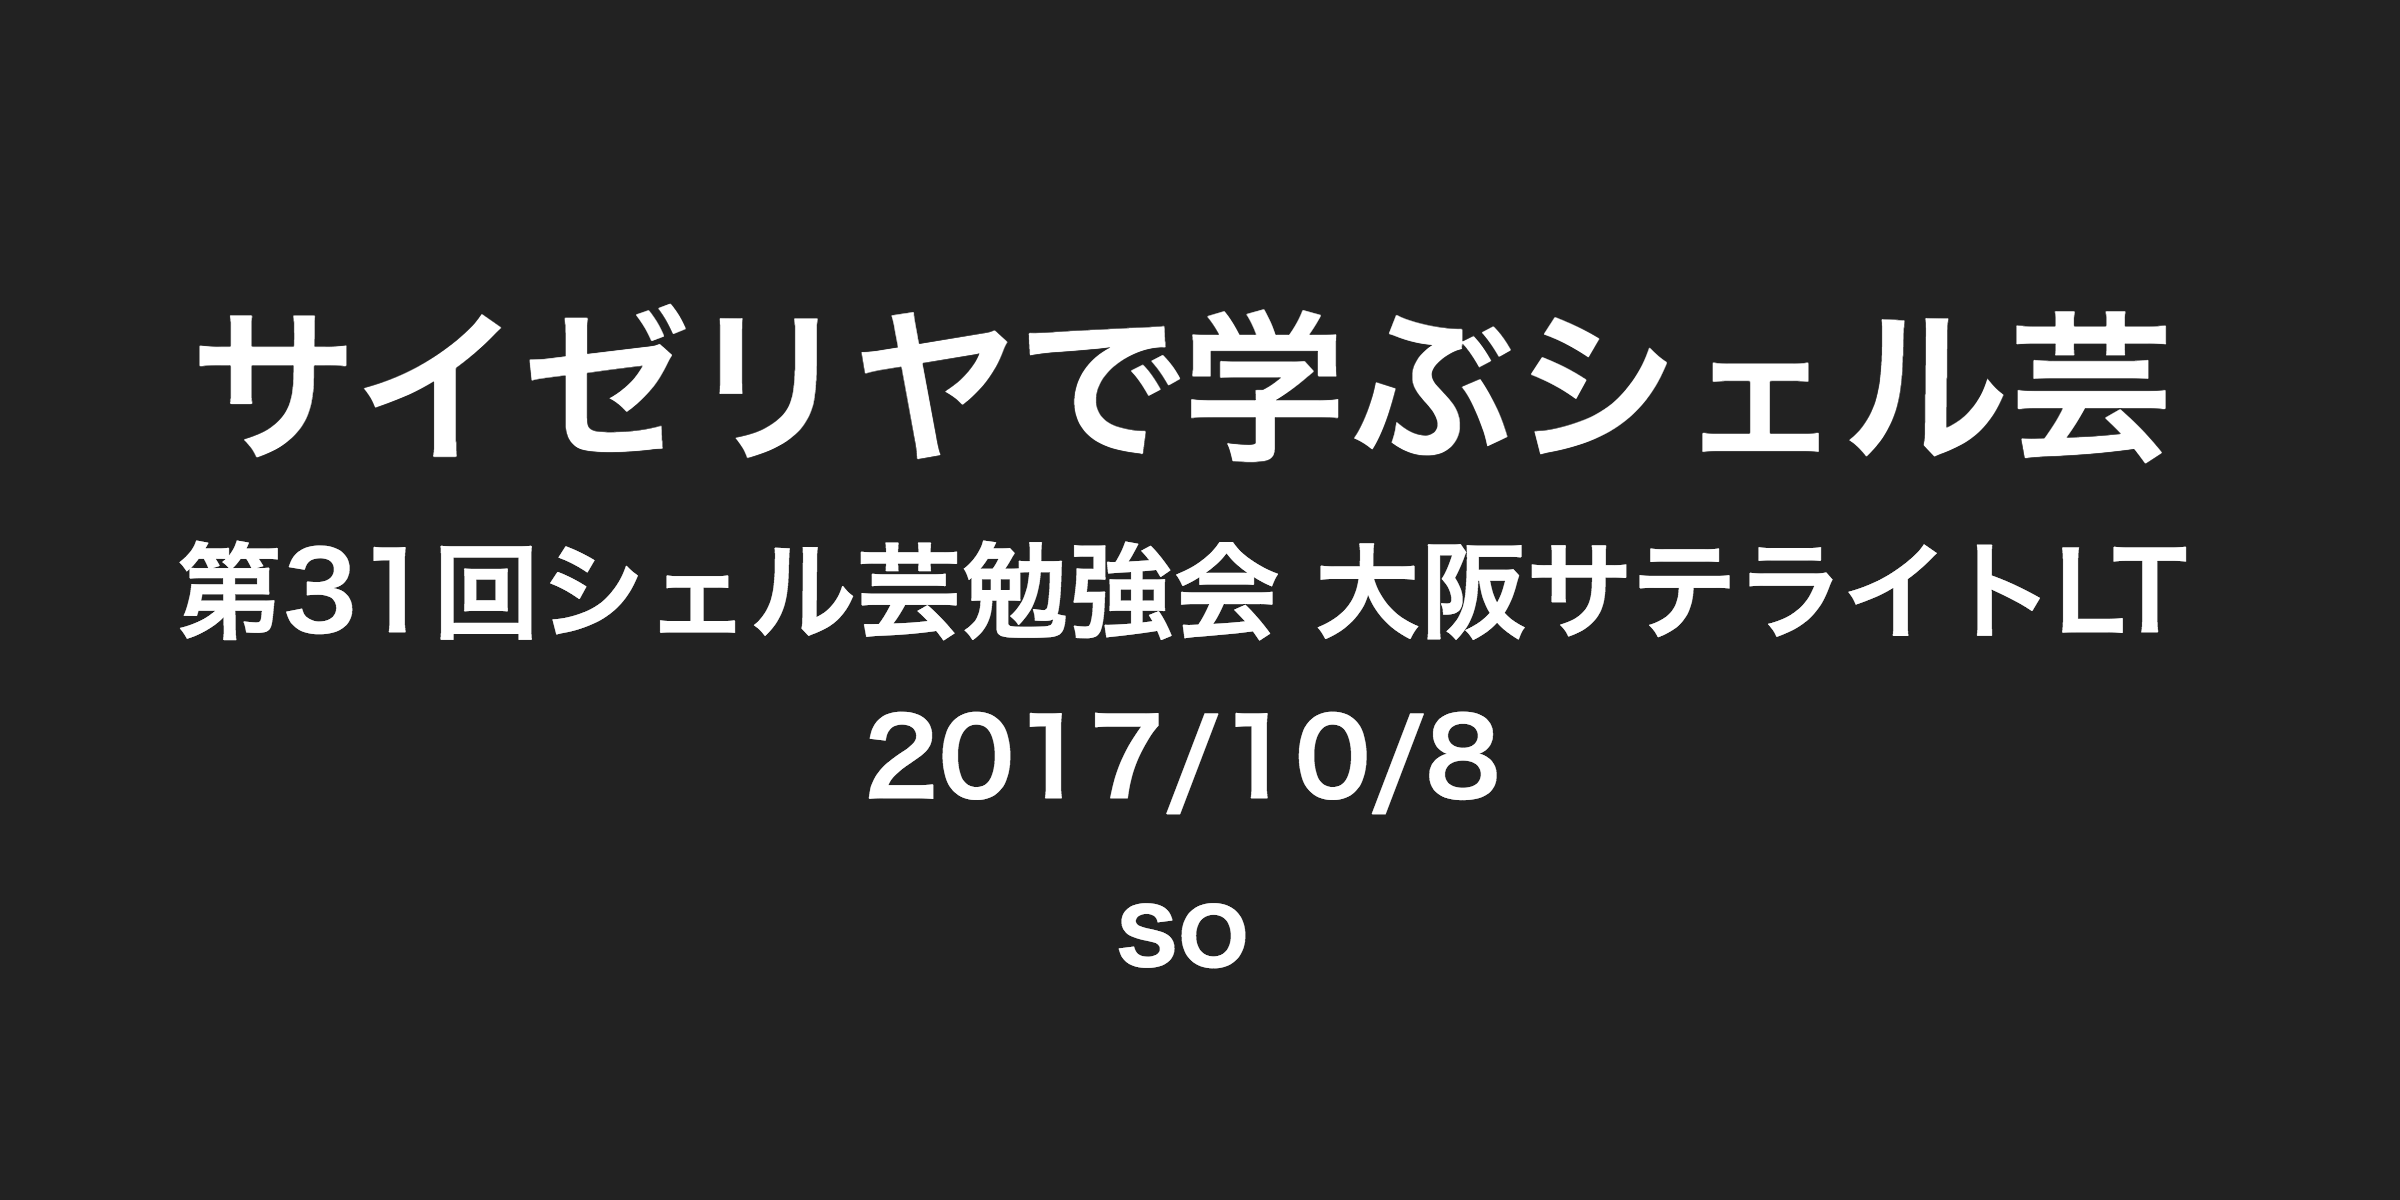
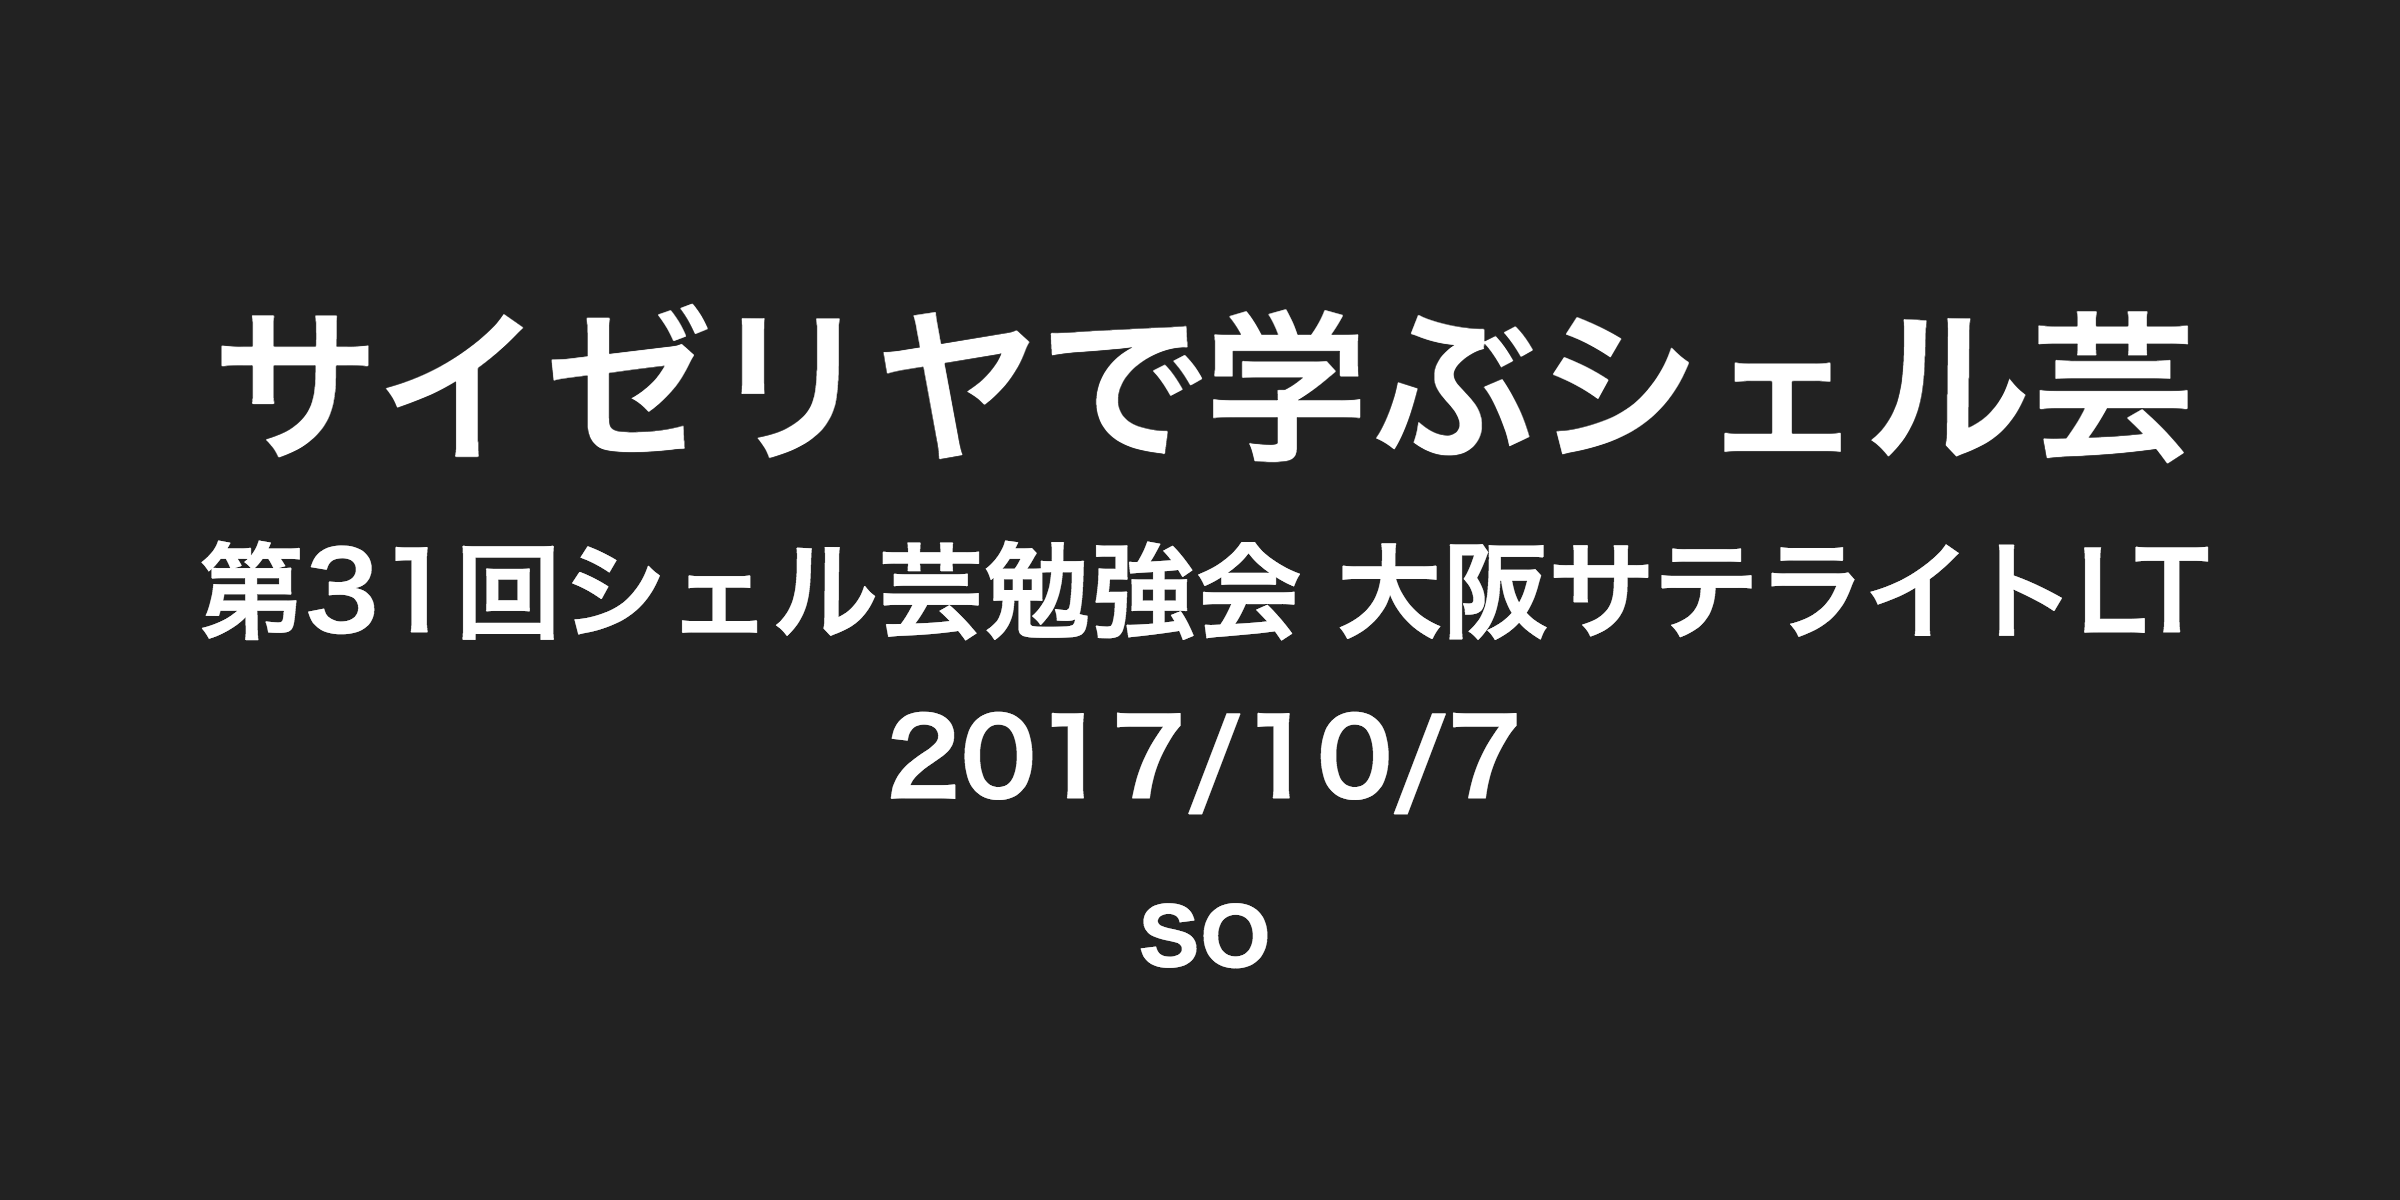
日付修正

diff --git a/README.md b/README.md
@@ -1,7 +1,7 @@
 # サイゼリヤで学ぶシェル芸
 
 ## 第31回シェル芸勉強会 大阪サテライトLT
-## 2017/10/8
+## 2017/10/7
 ## so
 
 >>>
